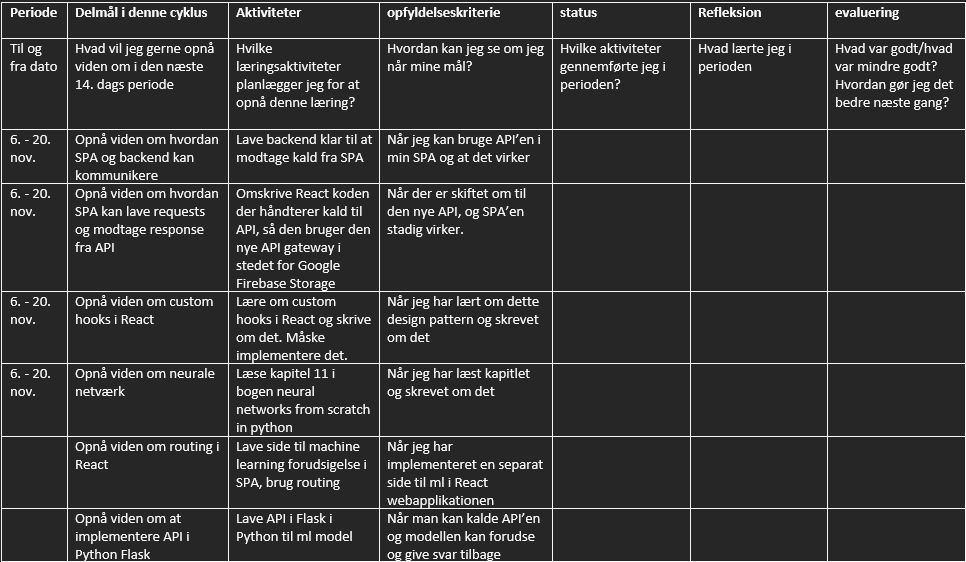
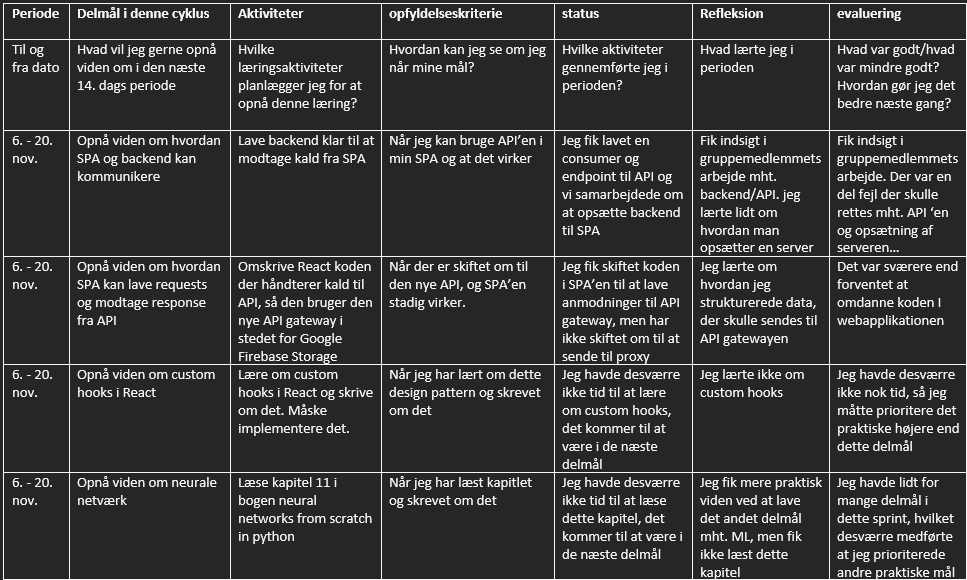
partgoals7 and 8

Changed region(s): [[0.0, 0.0, 1.0, 0.9982]]

diff --git a/_posts/2023-08-16-partgoals7.html b/_posts/2023-08-16-partgoals7.html
@@ -11,51 +11,81 @@ background: "/img/posts/kanban.png"
   backend klar til at modtage kald fra SPA, og gemme det i sql databasn og
   returnere data.
 </p>
-<!-- <p>
-
+<p>
+  Jeg fik lavet en ny consumer og endpoint til API. Jeg og det andet
+  gruppemedlem der står for dette backend delen af vores projekt, samarbejdede
+  om at opsætte backend til SPA. Vi købte en server og lagde API og
+  microservices op på denne, så webapplikationen kan sende anmodninger til den.
+  Jeg fik indsigt i gruppemedlemmets arbejde mht. backend/API, hvilket var godt
+  i forehold til at få et bedre overblik over vores projekt. Jeg lærte desuden
+  lidt om hvordan man opsætter en server. Dog var der en del fejl der skulle
+  rettes mht. API ‘en og opsætning af serveren…
 </p>
-<br /> -->
+<br />
 <p>
   Delmål 2: Opnå viden om hvordan SPA kan lave requests og modtage response fra
   API, ved at omskrive React koden der håndterer kald til API, så den bruger den
   nye API gateway i stedet for Google Firebase Storage.
 </p>
-<!-- <p>
+<p>
+  Jeg fik skiftet koden i SPA’en til at lave anmodninger til API gateway, men
+  har ikke skiftet om til at sende til proxy. Jeg lærte om hvordan man
+  strukturer data i React, der skulle sendes til API gatewayen. Dog var det
+  sværere end forventet at omdanne koden I webapplikationen
 </p>
-<br /> -->
+<br />
 <p>
   Delmål 3: Opnå viden om custom hooks i React og skrive om det. Måske, hvis jeg
   har tid og hvis det giver mening, også implementere det i webapplikationen.
 </p>
-<!-- <p>
+<p>
+  Jeg havde desværre ikke tid til at lære om custom hooks, det kommer til at
+  være i de næste delmål. Pga. tidsmangel måtte jeg prioritere det praktiske,
+  dvs. at få SPA til at kommunikere med API gateway, højere end dette delmål.
 </p>
-<br /> -->
+<br />
 <p>
   Delmål 4: Opnå viden om neurale netværk, ved at læse kapitel 11 i bogen
   "neural networks from scratch in python".
 </p>
-<!-- <p>
+<p>
+  Jeg havde desværre ikke tid til at læse dette kapitel, det kommer til at være
+  i de næste delmål. Jeg fik mere praktisk viden ved at lave det andet delmål
+  mht. ML, men fik ikke læst dette kapitel. Jeg havde lidt for mange delmål i
+  dette sprint, hvilket desværre medførte at jeg prioriterede andre mål højere.
 </p>
-<br /> -->
+<br />
 <p>
   Delmål 5: Opnå viden om routing i React, ved at lave en side til machine
   learning forudsigelse i SPA, hvor routing bruges.
 </p>
-<!-- <p>
+<p>
+  Jeg fik lavet routing til siden til ML, og jeg lærte og skrev en smule om
+  routing i React. Men jeg kunne godt have sat mig dybere ind i emnet, og jeg
+  kunne også tænke mig at lave routing med parametre i URL’en til ML siden.
 </p>
-<br /> -->
+<br />
 <p>Delmål 6: Opnå viden om og implementere API i Python Flask til ML model</p>
-<!-- <p>
+<p>
+  Jeg fik lavet en API til at modtage kald fra ML siden i SPA’en. Jeg lærte
+  hvordan man laver en API i Flask i Python. Det var faktisk ganske nemt at lave
+  denne API.
 </p>
-<br /> -->
+<br />
 <p>
   Delmål 7: Opnå viden om image recognition mht. ML, ved at lave en "proof of
   concept" image recognition ML model til lækage detection. Så man kan give
   modellen et billede og den kan sige om der er en lækage eller ej.
 </p>
-<!-- <p>
+<p>
+  Jeg fik trænet en model på termiske billeder, der kan sige om der er en lækage
+  på billedet. Jeg lærte om hvordan man præprocesserer billede data og bedst
+  træner sådan et netværk med tf.keras. Kunne godt have brugt et bedre billede
+  datasæt. Jeg kunne også have brugt mere tid på at sætte mig ind i teorien om
+  dette emne. Men det var et spæmdende experiment og er glad for at jeg gjorde
+  det.
 </p>
-<br /> -->
+<br />
 
 <img src="/img/posts/delmål7.png" style="max-width: 100%" />
 <img src="/img/posts/delmål7part2.png" style="max-width: 100%" />

diff --git a/_posts/2023-08-16-partgoals8.html b/_posts/2023-08-16-partgoals8.html
@@ -1,0 +1,49 @@
+---
+layout: post
+title: "Delmål Uge 47-48"
+subtitle: "Læringsplan, hvor man kan se, hvad jeg har tænkt at arbejde med de næste to uger"
+date: 2023-11-20 4:45:13 -0400
+background: "/img/posts/kanban.png"
+---
+
+<p>
+  Delmål 1: Indsigt i hvordan mit projekt bedst færdiggøres, ved at lave single
+  page applikationen færdig, og få den lagt op på serveren, så den kan tilgås
+  online.
+</p>
+<!-- <p>
+
+</p>
+<br /> -->
+<p>
+  Delmål 2: Indsigt i hvordan man containeriserer flask API’en til ML og React
+  SPA’en med Docker, ved at at lave flask API’en og React SPA’en til Docker
+  billeder.
+</p>
+<!-- <p>
+</p>
+<br /> -->
+<p>
+  Delmål 3: Lære mere teori om ML, backpropagation, loss og accuracy, samt
+  aktiverings funktioner, ved at læse i bogen "neural networks from scratch in
+  python" og se/læse tutorials online og skrive om dette.
+</p>
+<!-- <p>
+</p>
+<br /> -->
+<p>
+  Delmål 4: Lære mere teori om SPA, fx design patterns, ved at se og læse
+  tutorials online og skrive om dette. Og hvis jeg har tid, implementere nogle
+  af de ting jeg har lært.
+</p>
+<!-- <p>
+</p>
+<br /> -->
+<p>
+  Delmål 5: Opnå viden om hvordan man bedst præsenterer hvad jeg har lavet de
+  sidste måneder til Nolek, ved at lave diagrammer og forberede præsentation med
+  gruppe.
+</p>
+
+<img src="/img/posts/delmål8.png" style="max-width: 100%" />
+<img src="/img/posts/delmål8part2.png" style="max-width: 100%" />
